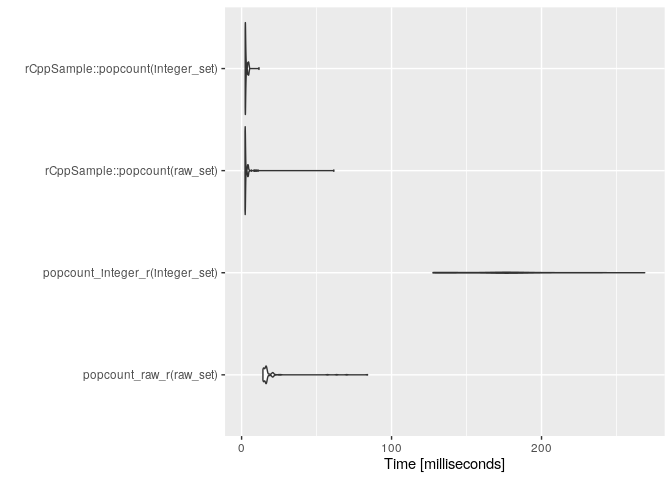
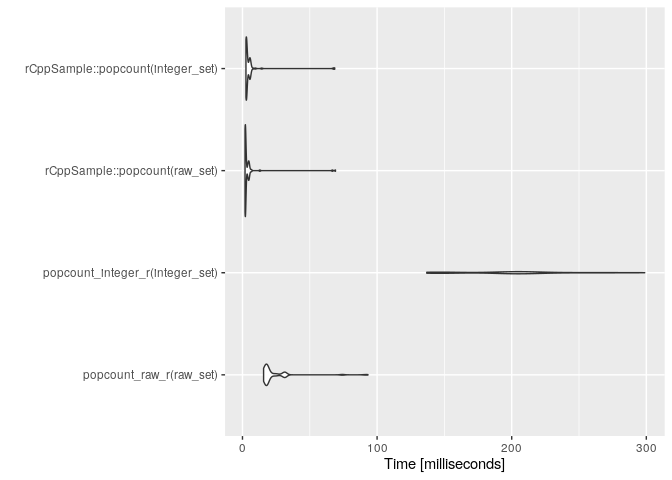
Improve the R package

diff --git a/r_proj/rCppSample/tests/test_popcount.cpp b/r_proj/rCppSample/tests/test_popcount.cpp
@@ -37,6 +37,39 @@ TEST_F(TestMatrix, Shape) {
 }
 #endif // UNIT_TEST_CPP
 
+class TestNaInteger : public ::testing::Test {};
+
+TEST_F(TestNaInteger, IsNaInteger) {
+    constexpr uint8_t zero_uint8 = 0;
+    constexpr auto max_uint8 = std::numeric_limits<uint8_t>::max();
+    constexpr int zero_int = 0;
+    constexpr auto max_int = std::numeric_limits<int>::max();
+    constexpr auto min_int = std::numeric_limits<int>::min();
+#ifdef UNIT_TEST_CPP
+    EXPECT_FALSE(is_na_integer(zero_uint8));
+    EXPECT_FALSE(is_na_integer(max_uint8));
+    EXPECT_FALSE(is_na_integer(zero_int));
+    EXPECT_FALSE(is_na_integer(max_int));
+    EXPECT_TRUE(is_na_integer(min_int));
+#else // UNIT_TEST_CPP
+    EXPECT_FALSE(is_na_integer<rCppSample::RawVector>(zero_uint8));
+    EXPECT_FALSE(is_na_integer<rCppSample::RawVector>(max_uint8));
+    EXPECT_FALSE(is_na_integer<rCppSample::IntegerVector>(zero_int));
+    EXPECT_FALSE(is_na_integer<rCppSample::IntegerVector>(max_int));
+    EXPECT_TRUE(is_na_integer<rCppSample::IntegerVector>(min_int));
+#endif // UNIT_TEST_CPP
+}
+
+TEST_F(TestNaInteger, GetNaIntValue) {
+#ifdef UNIT_TEST_CPP
+    const auto expected = rCppSample::NaInteger;
+#else // UNIT_TEST_CPP
+    const auto expected = NA_INTEGER;
+#endif // UNIT_TEST_CPP
+    const auto actual = get_na_int_value();
+    EXPECT_EQ(expected, actual);
+}
+
 namespace {
 template <typename T, typename U>
 bool are_equal(const T &expected, const U &actual) {

diff --git a/r_proj/rCppSample/src/popcount.cpp b/r_proj/rCppSample/src/popcount.cpp
@@ -1,23 +1,6 @@
-#include "popcount.h"
+#include "popcount_impl.h"
 
 namespace {
-template <typename T> bool is_na_integer(const T &x) {
-#ifdef UNIT_TEST_CPP
-    return (x == rCppSample::NaInteger);
-#else  // UNIT_TEST_CPP
-    return Rcpp::IntegerVector::is_na(x);
-#endif // UNIT_TEST_CPP
-}
-
-// Cannot use constexpr for NA_INTEGER
-int get_na_value() {
-#ifdef UNIT_TEST_CPP
-    return rCppSample::NaInteger;
-#else  // UNIT_TEST_CPP
-    return NA_INTEGER;
-#endif // UNIT_TEST_CPP
-}
-
 //' Count 1's in each element
 //'
 //' @tparam T A type of integers
@@ -30,10 +13,17 @@ template <typename T> rCppSample::IntegerVector popcount_cpp_impl(const T &xs) {
 
     for (decltype(size) i = 0; i < size; ++i) {
         const auto x = xs[i];
+        static_assert(std::is_integral<decltype(x)>::value);
 #ifdef __GNUC__
+#ifdef UNIT_TEST_CPP
         const auto v = is_na_integer(x)
-                           ? get_na_value()
+                           ? get_na_int_value()
                            : __builtin_popcount(static_cast<unsigned int>(x));
+#else  // UNIT_TEST_CPP
+        const auto v = is_na_integer<T>(x)
+                           ? get_na_int_value()
+                           : __builtin_popcount(static_cast<unsigned int>(x));
+#endif // UNIT_TEST_CPP
 #else
 #error Use an alternative of __builtin_popcount
 #endif

diff --git a/r_proj/rCppSample/src/test-popcount.cpp b/r_proj/rCppSample/src/test-popcount.cpp
@@ -43,6 +43,27 @@ context("Helper") {
     }
 }
 
+context("NaInteger") {
+    test_that("IsNaInteger") {
+        constexpr uint8_t zero_uint8 = 0;
+        constexpr auto max_uint8 = std::numeric_limits<uint8_t>::max();
+        constexpr int zero_int = 0;
+        constexpr auto max_int = std::numeric_limits<int>::max();
+        constexpr auto min_int = std::numeric_limits<int>::min();
+        expect_false(is_na_integer<rCppSample::RawVector>(zero_uint8));
+        expect_false(is_na_integer<rCppSample::RawVector>(max_uint8));
+        expect_false(is_na_integer<rCppSample::IntegerVector>(zero_int));
+        expect_false(is_na_integer<rCppSample::IntegerVector>(max_int));
+        expect_true(is_na_integer<rCppSample::IntegerVector>(min_int));
+    }
+
+    test_that("GetNaIntValue") {
+        const auto expected = NA_INTEGER;
+        const auto actual = get_na_int_value();
+        expect_true(actual == expected);
+    }
+}
+
 context("PopcountCpp") {
     test_that("Size") {
         using VectorType = rCppSample::RawVector;

diff --git a/r_proj/rCppSample/src/popcount_impl.h b/r_proj/rCppSample/src/popcount_impl.h
@@ -1,0 +1,36 @@
+#ifndef SRC_POPCOUNT_IMPL_H
+#define SRC_POPCOUNT_IMPL_H
+
+#include "popcount.h"
+#include <type_traits>
+
+namespace {
+#ifdef UNIT_TEST_CPP
+template <typename T> inline constexpr bool is_na_integer(T) = delete;
+
+inline constexpr bool is_na_integer(uint8_t x) {
+    return false;
+}
+
+inline constexpr bool is_na_integer(int x) {
+    return (x == rCppSample::NaInteger);
+}
+
+inline constexpr int get_na_int_value() {
+    return rCppSample::NaInteger;
+}
+
+#else  // UNIT_TEST_CPP
+template <typename T, typename U>
+inline bool is_na_integer(const U& x) {
+    return T::is_na(x);
+}
+
+// Cannot use constexpr for NA_INTEGER
+inline int get_na_int_value() {
+    return NA_INTEGER;
+}
+#endif // UNIT_TEST_CPP
+} // namespace
+
+#endif // SRC_POPCOUNT_IMPL_H

diff --git a/r_proj/rCppSample/src/test_popcount.h b/r_proj/rCppSample/src/test_popcount.h
@@ -1,7 +1,7 @@
 #ifndef SRC_TEST_POPCOUNT_H
 #define SRC_TEST_POPCOUNT_H
 
-#include "popcount.h"
+#include "popcount_impl.h"
 #include <type_traits>
 
 namespace {

diff --git a/r_proj/rCppSample/README.md b/r_proj/rCppSample/README.md
@@ -137,7 +137,7 @@ ratio
 rCppSample::popcount(raw_set)
 </td>
 <td style="text-align:left;">
-2.39230
+2.1495
 </td>
 <td style="text-align:left;">
 1.00000
@@ -148,10 +148,10 @@ rCppSample::popcount(raw_set)
 rCppSample::popcount(integer_set)
 </td>
 <td style="text-align:left;">
-2.59605
+2.9266
 </td>
 <td style="text-align:left;">
-1.08517
+1.36153
 </td>
 </tr>
 <tr>
@@ -159,10 +159,10 @@ rCppSample::popcount(integer_set)
 popcount_raw_r(raw_set)
 </td>
 <td style="text-align:left;">
-16.25745
+18.2799
 </td>
 <td style="text-align:left;">
-6.79574
+8.50428
 </td>
 </tr>
 <tr>
@@ -170,10 +170,10 @@ popcount_raw_r(raw_set)
 popcount_integer_r(integer_set)
 </td>
 <td style="text-align:left;">
-174.71225
+202.1020
 </td>
 <td style="text-align:left;">
-73.03108
+94.02280
 </td>
 </tr>
 </tbody>
